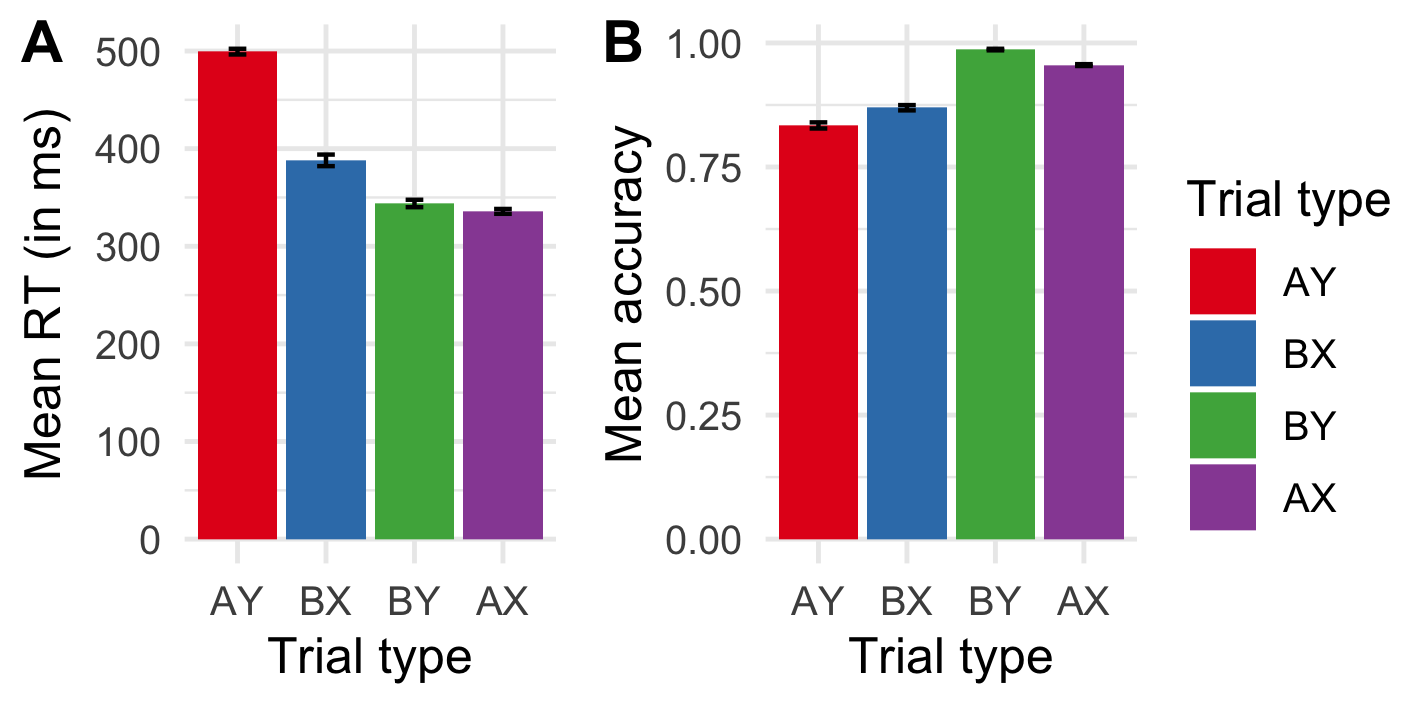
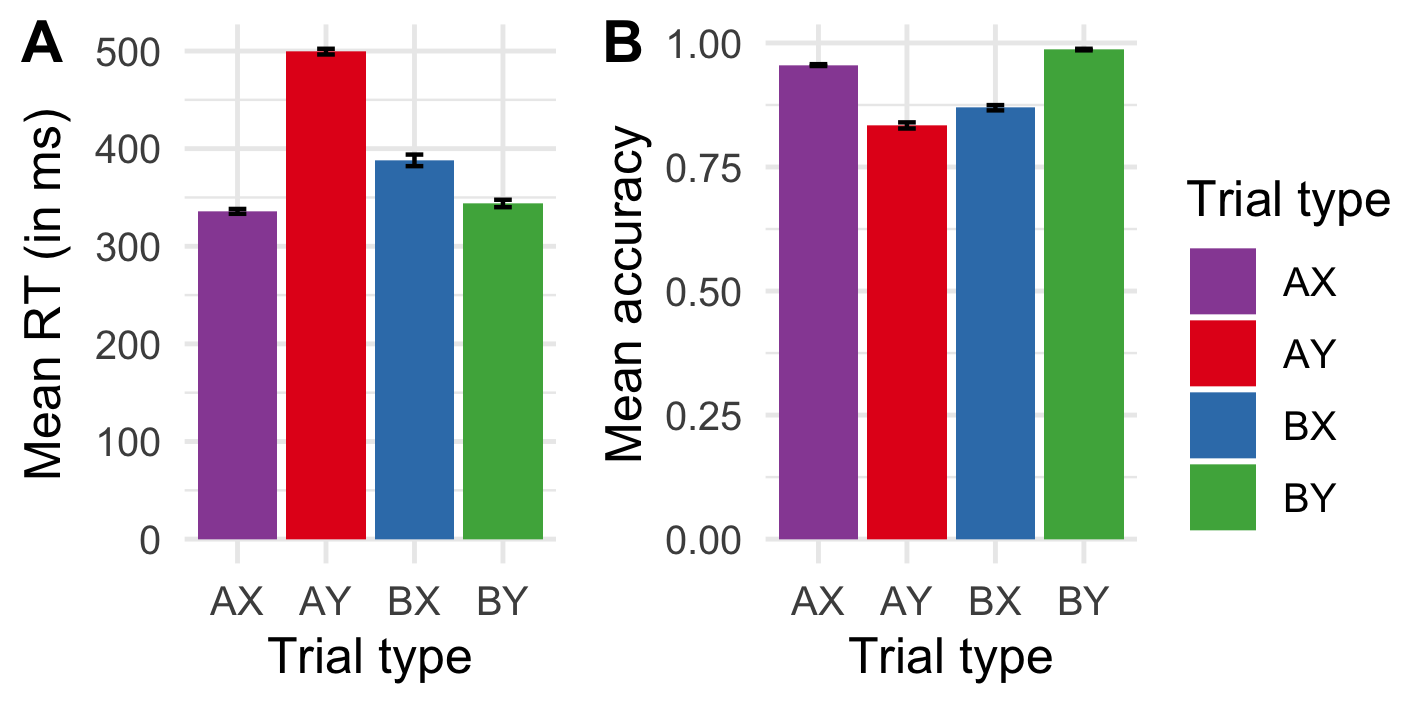
change order of axes on figure 1

diff --git a/tables/summary_stats.html b/tables/summary_stats.html
@@ -1,17 +1,3 @@
 
 <table style="text-align:center"><tr><td colspan="8" style="border-bottom: 1px solid black"></td></tr><tr><td style="text-align:left">Statistic</td><td>N</td><td>Mean</td><td>St. Dev.</td><td>Min</td><td>Pctl(25)</td><td>Pctl(75)</td><td>Max</td></tr>
-<tr><td colspan="8" style="border-bottom: 1px solid black"></td></tr><tr><td style="text-align:left">participant</td><td>455</td><td>758.965</td><td>323.781</td><td>212</td><td>453.5</td><td>997</td><td>1,264</td></tr>
-<tr><td style="text-align:left">age</td><td>455</td><td>22.754</td><td>3.633</td><td>18</td><td>20</td><td>24</td><td>35</td></tr>
-<tr><td style="text-align:left">aoa</td><td>455</td><td>6.752</td><td>4.334</td><td>0</td><td>4</td><td>10</td><td>28</td></tr>
-<tr><td style="text-align:left">yearsBilingual</td><td>455</td><td>16.002</td><td>5.340</td><td>1</td><td>13</td><td>19.6</td><td>34</td></tr>
-<tr><td style="text-align:left">L1_current_exposure</td><td>455</td><td>63.690</td><td>20.576</td><td>5</td><td>50</td><td>80</td><td>98</td></tr>
-<tr><td style="text-align:left">L2_current_exposure</td><td>455</td><td>33.890</td><td>20.070</td><td>2</td><td>20</td><td>50</td><td>95</td></tr>
-<tr><td style="text-align:left">L3_current_exposure</td><td>455</td><td>2.420</td><td>5.648</td><td>0</td><td>0</td><td>1</td><td>40</td></tr>
-<tr><td style="text-align:left">ReadEntropy</td><td>455</td><td>0.595</td><td>0.410</td><td>0.000</td><td>0.286</td><td>0.971</td><td>1.571</td></tr>
-<tr><td style="text-align:left">SpeakEntropy</td><td>455</td><td>0.695</td><td>0.417</td><td>0.000</td><td>0.469</td><td>1.000</td><td>1.585</td></tr>
-<tr><td style="text-align:left">HomeEntropy</td><td>455</td><td>0.602</td><td>0.456</td><td>0.000</td><td>0.000</td><td>0.963</td><td>1.585</td></tr>
-<tr><td style="text-align:left">WorkEntropy</td><td>455</td><td>0.756</td><td>0.367</td><td>0</td><td>0.6</td><td>1.0</td><td>2</td></tr>
-<tr><td style="text-align:left">SocialEntropy</td><td>455</td><td>0.944</td><td>0.276</td><td>0.000</td><td>0.811</td><td>1.000</td><td>1.585</td></tr>
-<tr><td style="text-align:left">meanAccent</td><td>455</td><td>3.625</td><td>1.787</td><td>1.000</td><td>2.000</td><td>5.000</td><td>7.000</td></tr>
-<tr><td style="text-align:left">meanL2ability</td><td>455</td><td>7.319</td><td>1.847</td><td>1.000</td><td>6.300</td><td>8.800</td><td>10.000</td></tr>
 <tr><td colspan="8" style="border-bottom: 1px solid black"></td></tr></table>
